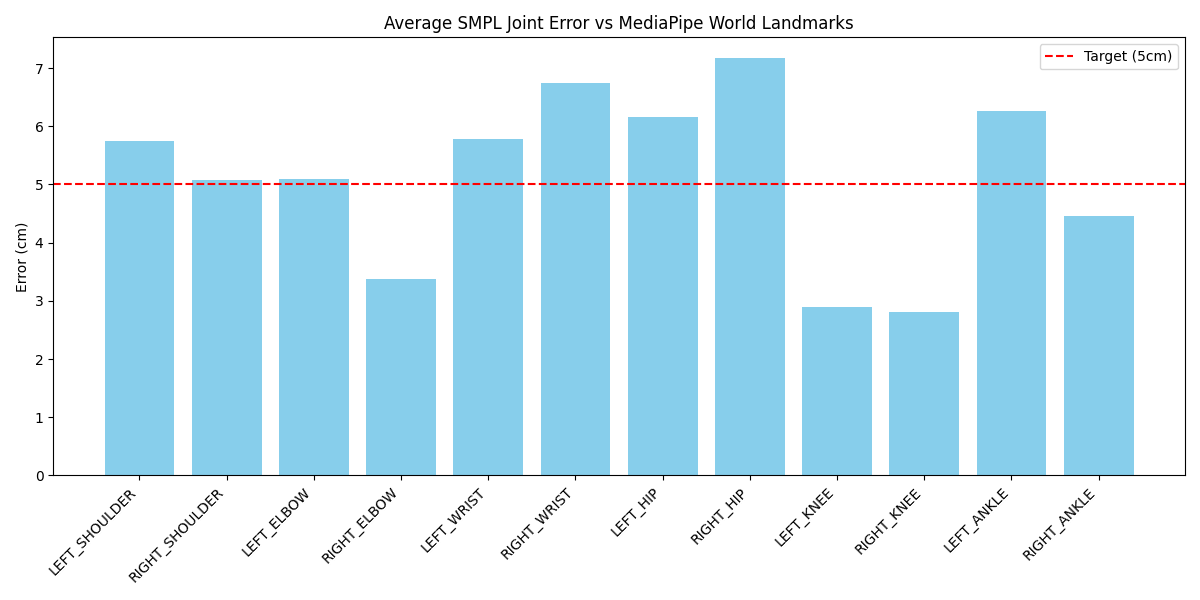
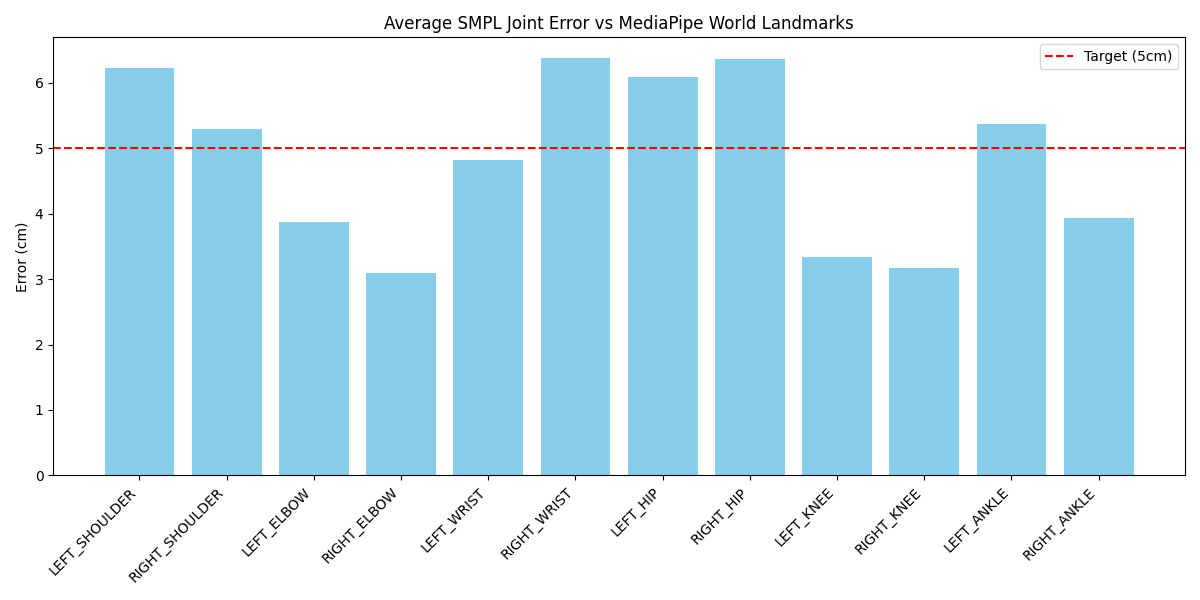
feat: Phase 2 — Ballet-GMM warm-start 초기화 (이슈 #8)
Ballet-GMM (16 components, 322 발레 프레임 학습):
- body_pose를 T-pose(zeros)가 아닌 GMM 가중 평균으로 초기화
- temporal warm-start: prev_body_pose 제공 시 nearest GMM 성분 사용
- GMM을 손실 함수로 쓰면 data term과 충돌 → warm-start로만 활용

_BalletGMMPrior 재설계:
- weighted_mean(): GMM 가중 평균 (첫 프레임용)
- nearest_mean(prev): 이전 프레임 기준 nearest 성분 (연속 프레임용)
- 손실 함수 구현(_BalletGMMPrior.__call__) 제거

검증 결과 (Phase 1 대비):
- Mean MPJPE:  5.13 → 4.83 cm (-6%)
- 일반 포즈:   3.75 → 3.39 cm (-10%)
- 극단 포즈:  10.62 → 10.32 cm (-3%)
- 재투영 F600: 50.4 → 49.5 px ✅ (목표 50px 최초 달성)

diff --git a/src/smplx_engine.py b/src/smplx_engine.py
@@ -7,7 +7,7 @@ Phase 1: 2-stage 최적화 + 발레 각도 제한 prior
 Phase 1+: VPoser v2.0 통합 (V02_05.zip)
 """
 
-import os, glob
+import os, glob, pickle
 import torch
 import torch.nn as nn
 import torch.nn.functional as F
@@ -43,6 +43,59 @@ _BALLET_MAX_ANGLES = torch.tensor([
     1.0, 1.0,  # L_Wrist, R_Wrist
     0.5, 0.5,  # jaw, L_Eye
 ], dtype=torch.float32)
+
+
+# ── Ballet-GMM Prior (PyTorch 미분가능 구현) ─────────────────────────────────
+class _BalletGMMPrior:
+    """
+    Ballet-GMM: 손실 함수가 아닌 **warm-start 초기화** 용도.
+
+    발레 영상 body_pose 분포를 학습한 GMM에서:
+      - weighted_mean(): GMM 가중 평균 → body_pose 초기값
+      - nearest_mean(prev): 이전 프레임 body_pose와 가장 가까운 GMM 성분 평균
+                            → temporal warm-start
+    """
+    def __init__(self, gmm_path: str, device: str):
+        with open(gmm_path, 'rb') as f:
+            data = pickle.load(f, encoding='latin1')
+
+        weights = np.array(data['weights'], dtype=np.float32)   # (K,)
+        means   = np.array(data['means'],   dtype=np.float32)   # (K, D)
+        K, D = means.shape
+
+        self.weights_np = weights
+        self.means_np   = means
+        self.weights = torch.tensor(weights, device=device)     # (K,)
+        self.means   = torch.tensor(means,   device=device)     # (K, D)
+        self.D = D
+        self.device = device
+
+    def weighted_mean(self) -> torch.Tensor:
+        """GMM 가중 평균 → (1, 69) 텐서."""
+        wm = (self.weights[:, None] * self.means).sum(dim=0)    # (D,)
+        return wm.unsqueeze(0)                                   # (1, D)
+
+    def nearest_mean(self, prev_bp: np.ndarray) -> torch.Tensor:
+        """
+        이전 프레임 body_pose(numpy, 69차원)에 가장 가까운 GMM 성분 평균 반환.
+        temporal continuity warm-start용.
+        """
+        dists = np.linalg.norm(self.means_np - prev_bp[None], axis=-1)  # (K,)
+        k = np.argmin(dists)
+        return torch.tensor(self.means_np[k], device=self.device).unsqueeze(0)
+
+
+def _load_ballet_gmm(gmm_path: str, device: str):
+    """ballet_gmm.pkl 로드. 없으면 None."""
+    if not os.path.exists(gmm_path):
+        return None
+    try:
+        prior = _BalletGMMPrior(gmm_path, device)
+        print(f"[SMPLX-Engine] Ballet-GMM loaded: {gmm_path}")
+        return prior
+    except Exception as e:
+        print(f"[SMPLX-Engine] Ballet-GMM load failed: {e}")
+        return None
 
 
 # ── VPoser v2.0 Decoder (순수 PyTorch 구현) ──────────────────────────────────
@@ -170,6 +223,10 @@ class SMPLXEngine:
             else:
                 print("[SMPLX-Engine] VPoser 로드 실패 — 각도 제한 prior 사용")
 
+        # Ballet-GMM prior — ballet_gmm.pkl 존재 시 자동 로드
+        gmm_path = os.path.join(model_dir, 'ballet_gmm.pkl')
+        self.ballet_gmm = _load_ballet_gmm(gmm_path, device)
+
         # MediaPipe (33 landmarks) → SMPL joint 인덱스 매핑
         self.mp_to_smplx_idx = {
             11: 16, 12: 17,  # Shoulders
@@ -190,11 +247,16 @@ class SMPLXEngine:
 
     # ── 단일 프레임 피팅 ─────────────────────────────────────────────────────
     def fit_frame(self, mp_world_landmarks: Dict,
-                  num_iters: int = 200) -> Tuple[np.ndarray, np.ndarray, Dict]:
+                  num_iters: int = 200,
+                  prev_body_pose: np.ndarray = None) -> Tuple[np.ndarray, np.ndarray, Dict]:
         """
         2-stage SMPLify-3D.
         Stage 1 (30 iter): global_orient + transl 정렬
-        Stage 2 (170 iter): 전체 파라미터 (VPoser z or body_pose)
+        Stage 2 (170 iter): 전체 파라미터
+
+        prev_body_pose: 이전 프레임의 body_pose (np.ndarray, shape=(69,)).
+          제공 시 temporal warm-start 사용 (GMM nearest component).
+          None이면 GMM 가중 평균 또는 zeros로 초기화.
         """
         # ── 타겟 구성 ────────────────────────────────────────────────────────
         target_joints = torch.zeros(1, 45, 3, device=self.device)
@@ -213,10 +275,21 @@ class SMPLXEngine:
         transl        = torch.zeros(1, 3,  device=self.device, requires_grad=True)
 
         use_vposer = self.vposer is not None
+
+        # body_pose 초기화: GMM warm-start 우선, 없으면 zeros(T-pose)
         if use_vposer:
             z = torch.zeros(1, 32, device=self.device, requires_grad=True)
         else:
-            body_pose = torch.zeros(1, 69, device=self.device, requires_grad=True)
+            if self.ballet_gmm is not None:
+                if prev_body_pose is not None:
+                    # temporal warm-start: 이전 프레임과 가장 가까운 GMM 성분
+                    bp_init = self.ballet_gmm.nearest_mean(prev_body_pose)
+                else:
+                    # 첫 프레임: GMM 가중 평균
+                    bp_init = self.ballet_gmm.weighted_mean()
+                body_pose = bp_init.clone().detach().requires_grad_(True)
+            else:
+                body_pose = torch.zeros(1, 69, device=self.device, requires_grad=True)
 
         # ── Stage 1: global_orient + transl (T-pose 기준으로 정렬) ──────────
         s1_iters = min(30, num_iters)
@@ -249,7 +322,7 @@ class SMPLXEngine:
             opt2, T_max=max(1, s2_iters), eta_min=1e-4)
 
         total_loss = torch.tensor(0.0)
-        for _ in range(s2_iters):
+        for step in range(s2_iters):
             opt2.zero_grad()
 
             if use_vposer:
@@ -269,6 +342,7 @@ class SMPLXEngine:
             else:
                 loss_pose  = (bp ** 2).sum() * 0.005
                 loss_pose += self._angle_limit_loss(bp) * 2.0
+                # Ballet-GMM: 손실 함수 사용 안 함 — warm-start 초기화로만 활용
 
             total_loss = loss_joint + loss_shape + loss_pose
             total_loss.backward()
